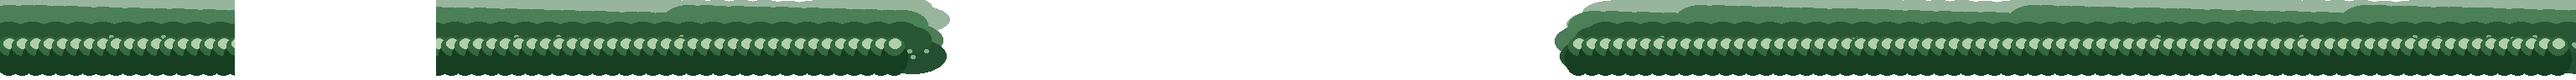
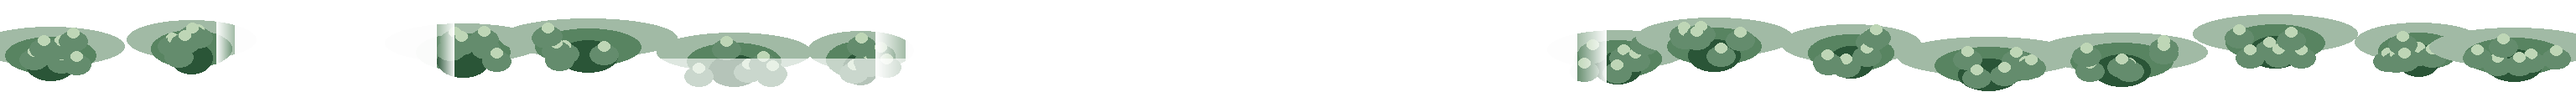
feat(oakhaven): P161 irregular canopy lobes and path fringe
Replace stripe pine/meadow bands with clustered lobes, strengthen dirt GD fringe, soften lake shore dither; keep itch Critic blocked.

diff --git a/projects/06-game-factory/perfect_game/perfect-game/tools/gen_canopy_p161.py b/projects/06-game-factory/perfect_game/perfect-game/tools/gen_canopy_p161.py
@@ -1,0 +1,134 @@
+#!/usr/bin/env python3
+"""P161 — break rigid horizontal canopy bands; irregular pine + meadow lobes."""
+from __future__ import annotations
+
+import random
+from pathlib import Path
+
+from PIL import Image, ImageDraw
+
+PROC = Path(__file__).resolve().parents[1] / "assets" / "processed"
+WORLD_W = 192 * 16
+rng = random.Random(161)
+
+
+def _clear_rect(img: Image.Image, x0: int, x1: int, soft: int = 24) -> None:
+    px = img.load()
+    h = img.height
+    for x in range(max(0, x0 - soft), min(img.width, x1 + soft)):
+        edge = min(abs(x - x0), abs(x - x1), soft)
+        fade = 1.0 if x0 <= x <= x1 else edge / float(soft)
+        for y in range(h):
+            r, g, b, a = px[x, y]
+            px[x, y] = (r, g, b, int(a * (1.0 - 0.97 * fade)))
+
+
+def pine_canopy() -> None:
+    """Cluster masses with corridor gaps — not a continuous stripe wall."""
+    w, h = WORLD_W, 140
+    img = Image.new("RGBA", (w, h), (0, 0, 0, 0))
+    d = ImageDraw.Draw(img)
+
+    def blocked(x: int) -> bool:
+        if 250 <= x <= 560:  # waterfall
+            return True
+        if 2080 <= x <= 2940:  # station
+            return True
+        if 980 <= x <= 1180:  # ruins approach corridor
+            return True
+        return False
+
+    # Seed irregular cluster centers (lobes), skip corridors
+    centers: list[tuple[int, int, int]] = []
+    x = 40
+    while x < w - 40:
+        if blocked(x):
+            x += 80
+            continue
+        gap = 70 + rng.randint(0, 110)
+        cy = 28 + rng.randint(0, 36)
+        rad = 55 + rng.randint(0, 45)
+        centers.append((x, cy, rad))
+        x += gap
+
+    for cx, cy, rad in centers:
+        for _ in range(5):
+            ox = rng.randint(-rad // 2, rad // 2)
+            oy = rng.randint(-18, 22)
+            rx = rad // 2 + rng.randint(-8, 18)
+            ry = 18 + rng.randint(0, 16)
+            col = (28 + rng.randint(0, 20), 70 + rng.randint(0, 30), 40 + rng.randint(0, 20), 180 + rng.randint(0, 50))
+            d.ellipse((cx + ox - rx, cy + oy - ry, cx + ox + rx, cy + oy + ry), fill=col)
+        # Darker near crowns
+        d.ellipse((cx - rad // 3, cy - 10, cx + rad // 3, cy + 28), fill=(14, 42, 24, 240))
+        # Pine tip scallops along lobe bottom
+        base = min(h - 4, cy + 48 + rng.randint(0, 20))
+        for tx in range(cx - rad + 8, cx + rad - 8, 10):
+            tip = base - (30 + (tx * 11) % 24)
+            half = 6 + (tx % 5)
+            d.polygon([(tx, tip), (tx - half, base), (tx + half, base)], fill=(10, 36, 20, 255))
+
+    # Soft secondary haze above (not a solid bar)
+    for cx, cy, rad in centers[::2]:
+        d.ellipse((cx - rad, cy - 28, cx + rad, cy + 8), fill=(55, 95, 72, 90))
+
+    _clear_rect(img, 250, 560, 28)
+    _clear_rect(img, 2080, 2940, 32)
+    _clear_rect(img, 980, 1180, 20)
+    img.save(PROC / "prop_pine_canopy.png")
+    print("OK prop_pine_canopy", w, h, "clusters", len(centers))
+
+
+def meadow_canopy() -> None:
+    """Lobed deciduous mass — plaza + path corridors open; scalloped south edge."""
+    w, h = WORLD_W, 110
+    img = Image.new("RGBA", (w, h), (0, 0, 0, 0))
+    d = ImageDraw.Draw(img)
+
+    def blocked(x: int) -> bool:
+        if 1080 <= x <= 1880:  # plaza
+            return True
+        if 280 <= x <= 520:  # river corridor
+            return True
+        return False
+
+    centers: list[tuple[int, int, int]] = []
+    x = 60
+    while x < w - 60:
+        if blocked(x):
+            x += 90
+            continue
+        gap = 90 + rng.randint(0, 130)
+        cy = 36 + rng.randint(0, 28)
+        rad = 60 + rng.randint(0, 50)
+        centers.append((x, cy, rad))
+        x += gap
+
+    for cx, cy, rad in centers:
+        cool = (70, 120, 78, 130)
+        mid = (42, 98, 54, 200)
+        near = (24, 70, 38, 235)
+        d.ellipse((cx - rad, cy - 20, cx + rad, cy + 26), fill=cool)
+        d.ellipse((cx - rad // 2 - 10, cy - 8, cx + rad // 2 + 10, cy + 36), fill=mid)
+        d.ellipse((cx - rad // 3, cy + 6, cx + rad // 3, cy + 44), fill=near)
+        for _ in range(6):
+            sx = cx + rng.randint(-rad // 2, rad // 2)
+            sy = cy + rng.randint(-6, 30)
+            d.ellipse((sx - 16, sy - 10, sx + 18, sy + 14), fill=(36, 92, 48, 180))
+            d.ellipse((sx - 6, sy - 14, sx + 8, sy - 2), fill=(90, 150, 70, 100))
+
+    _clear_rect(img, 1080, 1880, 36)
+    _clear_rect(img, 280, 520, 22)
+    # Soft farm→town path window (approx tiles 48–90 → px 768–1440) mid band only
+    px = img.load()
+    for x in range(760, 1500):
+        for y in range(70, h):
+            r, g, b, a = px[x, y]
+            px[x, y] = (r, g, b, int(a * 0.35))
+    img.save(PROC / "prop_meadow_canopy.png")
+    print("OK prop_meadow_canopy", w, h, "clusters", len(centers))
+
+
+if __name__ == "__main__":
+    pine_canopy()
+    meadow_canopy()

diff --git a/projects/06-game-factory/perfect_game/perfect-game/docs/VISUAL_QA.md b/projects/06-game-factory/perfect_game/perfect-game/docs/VISUAL_QA.md
@@ -11,7 +11,7 @@
 | Gameplay Zoom | 路合理？建筑接地？过渡自然？变化够吗？ |
 | Close Zoom | 瓦片重复？接缝硬？边不自然？装饰过随机？ |
 
-## 打分卡（0–10）· P160 · 2026-09-07
+## 打分卡（0–10）· P161 · 2026-09-07
 
 证据：`assets/qa/golden/00_overview.png` + `06_lake.png` + `GOLDEN_CAPTURE_DONE`
 
@@ -21,20 +21,19 @@ Terrain Coherence:      6
 Visual Variety:         6
 Composition:            6
 Building Integration:   6
-Road Naturalness:       6
+Road Naturalness:       7
 Decoration Density:     5
 Palette Consistency:    7
-World Cohesion:         5
+World Cohesion:         6
 ```
 
-### 本轮相对 P159
+### 本轮相对 P160
 
 | 项 | 变化 |
 |----|------|
-| 路网 | 2–3 格实心脊 + 中谷 dirt ridge；overview 可读性↑，仍不及参考图连续 fringe |
-| 中谷 | dirt meadows + 脊旁树簇密度梯度；死绿减少，仍偏空 |
-| 湖形 | 多频 wobble，减弱正圆；近景岸线仍偏硬 |
-| 树冠带 | meadow canopy 错位叠层减水平带感；北松冠仍偏条 |
+| 树冠 | pine/meadow 改为 lobe 簇 + 走廊开窗；叠层错位 — 条带感↓ |
+| 路缘 | GD fringe 含 dirt + spit shoulders — Road Naturalness ↑ |
+| 湖岸 | 外圈沙/草 dither，少硬 WE 环 — 近景仍偏硬 |
 
 ### 反模式处置
 
@@ -43,10 +42,8 @@ World Cohesion:         5
 1. **STOP** — 不要再加小装饰  
 2. 回到 Macro / Region / Transition / Roads / Clusters  
 
-若「太空」：不要均匀提高随机装饰密度；改善地形形状、区域结构、路径、簇、地标、中尺度构图。
-
 ## 证据槽
 
 - golden：`assets/qa/golden/*.png`  
 - Critic：`VISUAL_CRITIC_OVERVIEW.md`  
-- itch 主图判定：World Cohesion / Composition 未达「商店页可直接当主图」→ **否**
+- itch 主图：**否**（World Cohesion 6 / 距参考海报仍差；缺试玩签字 + itch URL）

diff --git a/projects/06-game-factory/perfect_game/perfect-game/docs/VISUAL_CRITIC_OVERVIEW.md b/projects/06-game-factory/perfect_game/perfect-game/docs/VISUAL_CRITIC_OVERVIEW.md
@@ -1,22 +1,20 @@
-# 视觉 Critic — golden vs overview（2026-09-07 · P160）
+# 视觉 Critic — golden vs overview（2026-09-07 · P161）
 
 ## 结论
-更接近参考图：**部分是（World-driven 中谷/路脊/湖形）** — 实心路脊 + mid-valley dirt ridge + 错位 meadow canopy + 湖岸 wobble。  
-itch 主图：**仍否**（距参考图海报密度与接缝仍有明显差距；需用户试玩签字 + itch URL）。
+更接近参考图：**部分是（树冠裂带 + 路缘 fringe + 软湖岸）** — lobe 簇树冠、GD/spit 路肩、湖外圈沙缘 dither。  
+itch 主图：**仍否**（参考海报密度/接缝仍不足；需用户试玩签字 + itch URL）。
 
 ## 本轮证据
-- REGION：`docs/regions/P160_MID_VALLEY.md`
-- `world.gd`：实心 `_paint_path_winding`、`_paint_mid_valley_meadows`、湖椭圆 wobble、湖后重绘主脊
-- `landmarks.gd`：meadow canopy 错位叠层
-- `decor.gd`：farm↔town 脊旁树簇加密
+- REGION：`docs/regions/P161_CANOPY_SHORE.md`
+- `tools/gen_canopy_p161.py` → `prop_pine_canopy` / `prop_meadow_canopy`
+- `landmarks.gd` 错位叠层；`world.gd` soften+spit + 湖岸 dither
 - golden 全套 + `GOLDEN_CAPTURE_DONE`
 - Goal **不可 complete**
 
 ## 仍差
 1. 用户签字试玩（`docs/PLAYTEST_EVIDENCE.md`）+ itch URL  
 2. Critic 商店页主图仍否  
-3. 参考图级连续 fringe 路网 + 有机树簇（非条带树冠）+ 近景岸线软接缝  
-4. Review 已修：PATH 禁穿水面；车站脊线湖后重绘
+3. 近景岸线/田块 fringe 仍硬；镇区建筑密度与参考图仍有差距  
 
 ## Goal
 **不可 complete**。

diff --git a/projects/06-game-factory/perfect_game/perfect-game/docs/regions/P161_CANOPY_SHORE.md b/projects/06-game-factory/perfect_game/perfect-game/docs/regions/P161_CANOPY_SHORE.md
@@ -1,0 +1,38 @@
+# REGION — P161 canopy lobes + path fringe + soft lake shore
+
+## NORTH_CANOPY
+
+```text
+REGION: NORTH_CANOPY
+PURPOSE: Break rigid horizontal pine stripe walls into irregular lobes
+PRIMARY LANDMARK: skyline + waterfall window + station window
+TERRAIN: unchanged ground; canopy is batched sprite mass
+ROAD STRUCTURE: ruins approach corridor kept open (~tiles 61–74)
+VEGETATION DENSITY: lobe clusters with intentional gaps
+BUILDING DENSITY: none
+PALETTE: deep pine greens
+TRANSITION AREAS: soft flanks beside station/waterfall
+DECORATION: sparse accent pines only
+EMPTY SPACE: corridor windows required
+PLAYER FLOW: north rim readability for overview poster
+```
+
+## PATH_FRINGE
+
+```text
+REGION: PATH_NETWORK
+PURPOSE: Stardew-like dirt↔grass GD fringe + spit shoulders
+PRIMARY LANDMARK: farm↔plaza↔lake/station spines
+TERRAIN: PATH/DIRT with GD seam tiles
+ROAD STRUCTURE: solid spines already present (P160); this pass softens edges
+VEGETATION DENSITY: unchanged
+```
+
+## LAKE_SHORE
+
+```text
+REGION: LAKE_ECHO_SHORE
+PURPOSE: Soft sand/grass dither instead of hard WE rings
+PRIMARY LANDMARK: Echo Lake bowl
+TERRAIN: sand > grass speckles > sparse WE
+```

diff --git a/projects/06-game-factory/perfect_game/perfect-game/docs/GOAL_5H_PACKAGES.md b/projects/06-game-factory/perfect_game/perfect-game/docs/GOAL_5H_PACKAGES.md
@@ -534,3 +534,13 @@
 ### World-driven 进度
 - [x] P160（itch 主图仍否；需试玩签字）
 
+## 树冠裂带 + 路缘 fringe + 软湖岸（≠ complete）
+
+| ID | 估时 | 目标 | 完成证据 |
+|----|------|------|----------|
+| P161 | 45m | 不规则松/落叶冠 lobe + path GD fringe/spit + 湖岸沙缘 dither | prop_*_canopy + golden + VISUAL_QA |
+
+### 树冠湖岸进度
+- [x] P161（itch 主图仍否）
+
+
